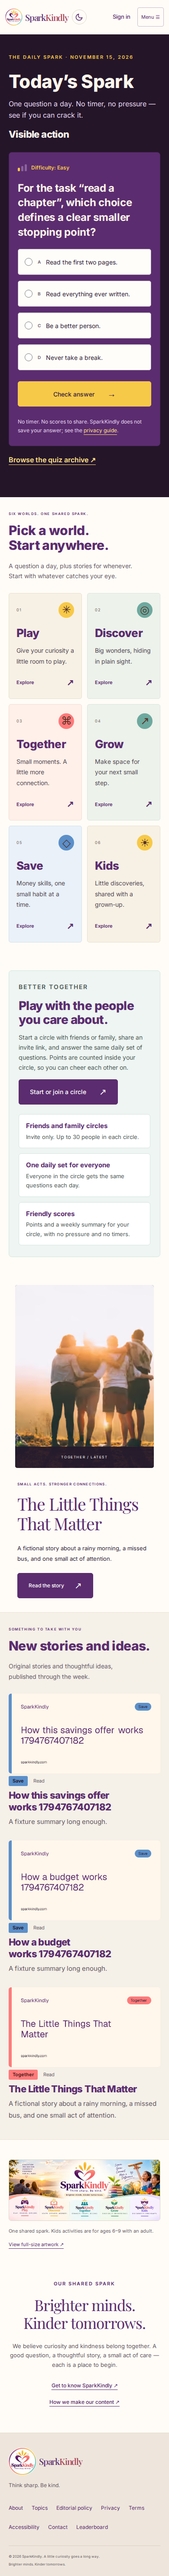
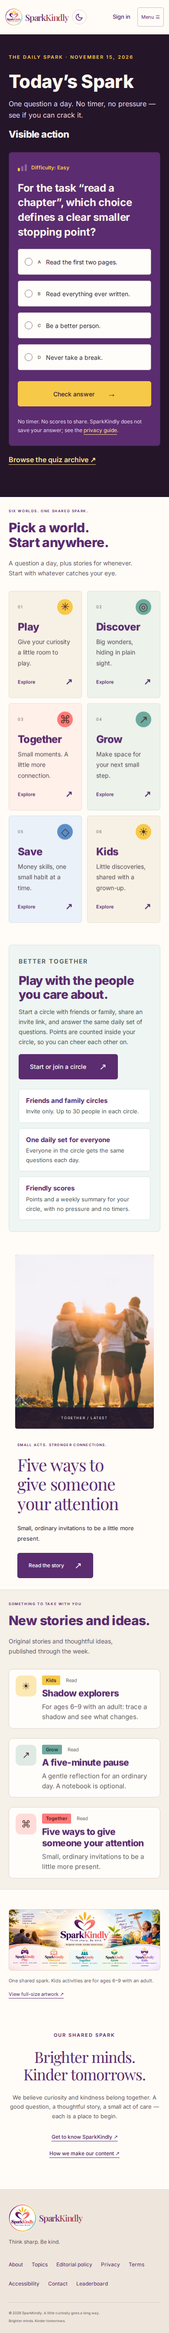
Fix featured/template images being cut off
The world-page feature always rendered the 1200x630 share card under the
global object-fit:cover, slicing its title text at the edges (owner
screenshot). The feature now uses the item's own hero photo when it has
one (cover is right for a photo); when it does not, the share card renders
with object-fit:contain on a matching cream ground so nothing is cut.
Same contain treatment for the article-page media fallback.

diff --git a/app/[world]/page.tsx b/app/[world]/page.tsx
@@ -9,6 +9,7 @@ import { accountSessionToken, currentScope } from '@/lib/accounts/scope-next';
 import SponsorCard from '@/components/sponsorship/SponsorCard';
 import { loadWorldSponsor } from '@/lib/sponsorship/web';
 import { getWorld } from '@/lib/public/worlds';
+import { readImage } from '@/lib/public/body';
 import { listPublic } from '@/lib/public/reads';
 import { PAGE_SIZE, pageCanonical, parsePage } from '@/lib/public/paging';
 import { metadata as seo } from '@/lib/seo';
@@ -36,6 +37,7 @@ export default async function WorldPage({ params, searchParams }: Props) {
   if (page > 1 && !items.length) notFound(); // SEO audit M3: no empty, indexable page past the end
   const hasNext = rows.length > PAGE_SIZE;
   const feature = page === 1 ? items[0] : undefined;
+  const featureImage = feature ? readImage(feature.image) : null;
   const rest = feature ? items.slice(1) : items;
   const here = `/${w.slug}/`;
   // The world's own sponsorship (Save, Grow and Discover only; null elsewhere, with the flag off and for viewers who may not see it).
@@ -63,7 +65,11 @@ export default async function WorldPage({ params, searchParams }: Props) {
       )}
       {feature && (
         <section className="brand-feature feature-card">
-          <img src={`/api/template-image/${feature.world}/${feature.slug}/`} width={800} height={420} alt="" />
+          {featureImage?.src ? (
+            <img src={featureImage.src} width={featureImage.width ?? 800} height={featureImage.height ?? 420} alt="" />
+          ) : (
+            <img className="feature-template" src={`/api/template-image/${feature.world}/${feature.slug}/`} width={800} height={420} alt="" />
+          )}
           <div>
             <p className="eyebrow">FEATURED {feature.kind === 'article' ? 'READ' : feature.kind.toUpperCase()}</p>
             <h2><Link href={`/${feature.world}/${feature.slug}/`}>{feature.title}</Link></h2>

diff --git a/app/globals.css b/app/globals.css
@@ -316,3 +316,8 @@ html[data-theme="dark"] .content-card{background:#2e2138;border-color:#4a3a56}
 .card-list{display:grid;grid-template-columns:1fr;gap:0;max-width:880px}
 html[data-theme="dark"] .text-card{background:transparent;border-color:#4a3a56}
 @media(max-width:580px){.strip-thumb{width:88px;height:66px}}
+
+/* Share-card images are text artwork, not photos: never cover-crop them (their
+   words slice off at the edges). Show the whole card on its own cream ground. */
+.brand-feature>img.feature-template{object-fit:contain;background:#fff7eb}
+.article-media img.media-template{object-fit:contain;background:#fff7eb}

diff --git a/app/[world]/[slug]/page.tsx b/app/[world]/[slug]/page.tsx
@@ -123,7 +123,7 @@ export default async function ItemPage({ params, searchParams }: Props) {
           {image.src ? (
             <Picture src={image.src} width={image.width ?? 1200} height={image.height ?? 800} alt={image.alt} priority />
           ) : (
-            <img src={`/api/template-image/${item.world}/${item.slug}/`} width={1200} height={630} alt="" />
+            <img className="media-template" src={`/api/template-image/${item.world}/${item.slug}/`} width={1200} height={630} alt="" />
           )}
         </div>
       )}
